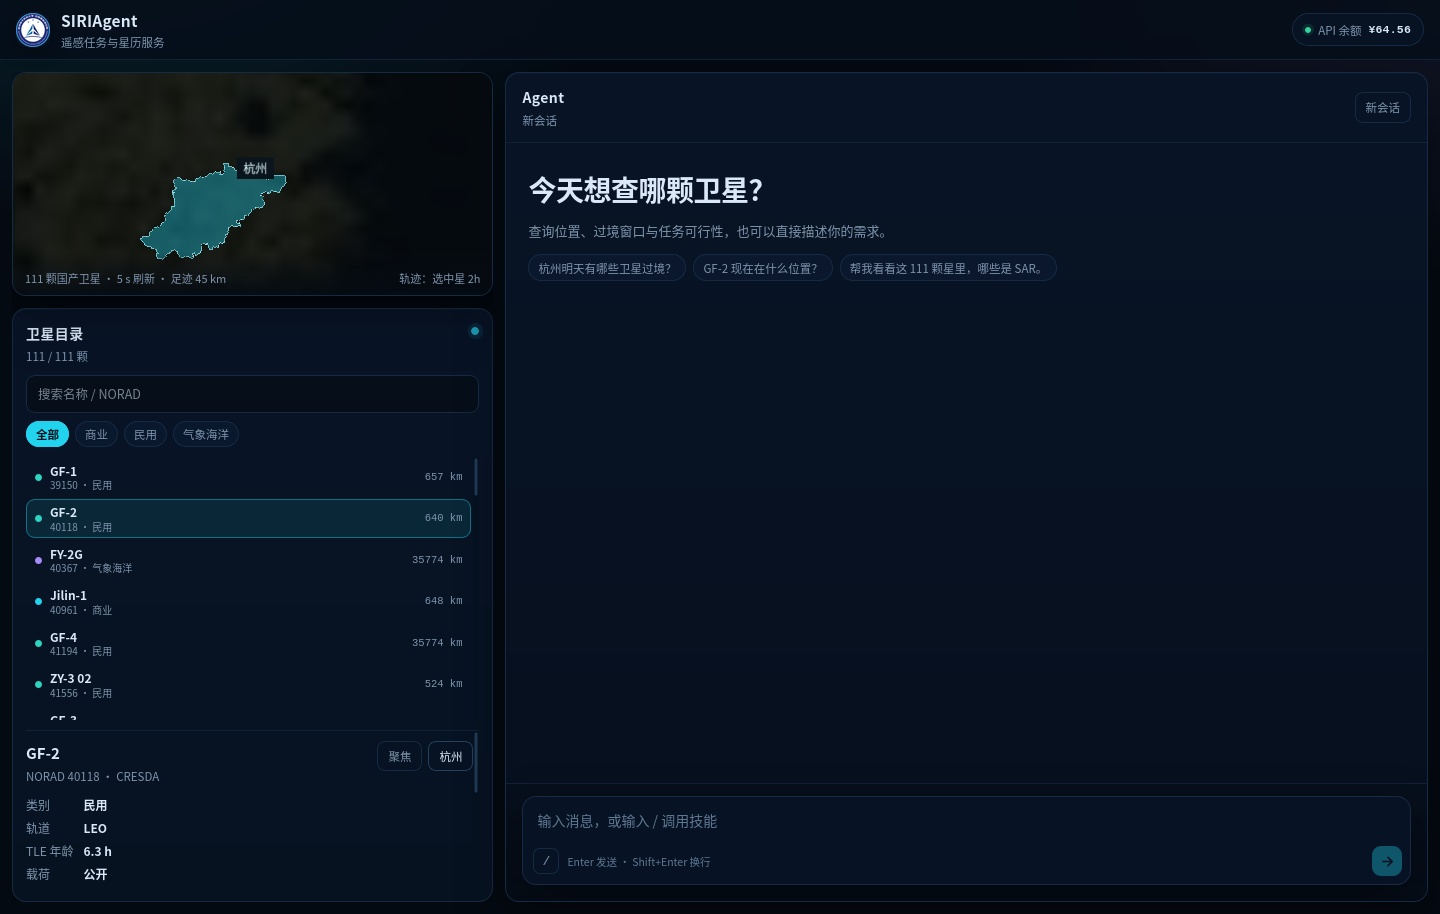
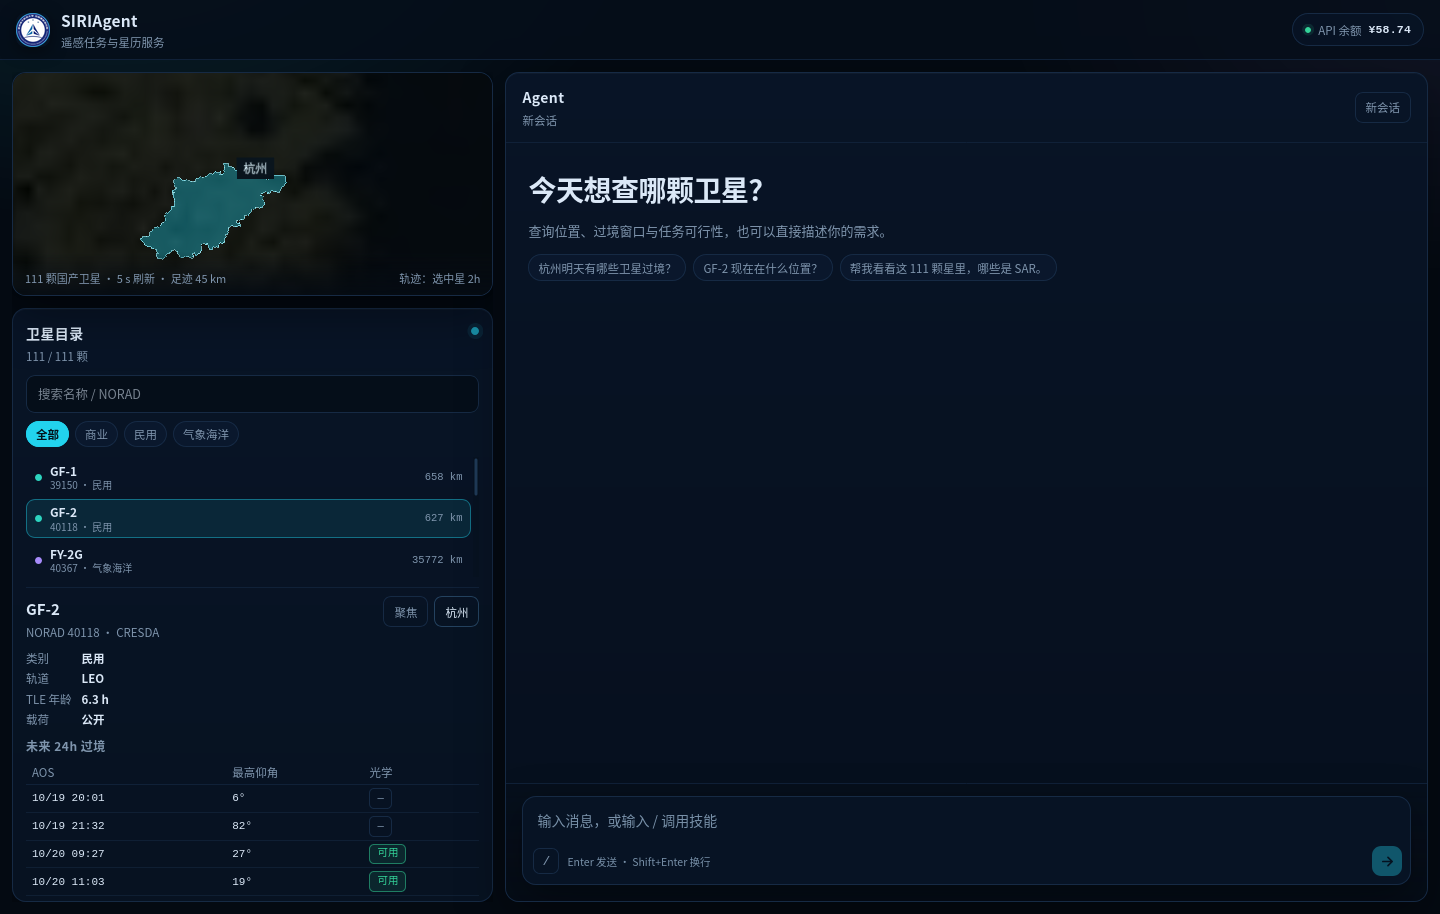
fix(web): fit satellite detail by shortening catalog list

diff --git a/web/src/styles.css b/web/src/styles.css
@@ -416,12 +416,12 @@ button {
 }
 
 .sat-detail {
-  flex: 0 0 28%;
+  flex: 0 0 auto;
   min-height: 0;
-  max-height: 28%;
+  max-height: none;
   border-top: 1px solid var(--line-soft);
-  padding-top: 10px;
-  overflow: auto;
+  padding-top: 8px;
+  overflow: visible;
 }
 
 .detail-head {
@@ -452,9 +452,9 @@ button {
 .detail-grid {
   display: grid;
   grid-template-columns: auto 1fr;
-  gap: 4px 10px;
-  margin: 10px 0 4px;
-  font-size: 12px;
+  gap: 2px 10px;
+  margin: 8px 0 2px;
+  font-size: 11.5px;
 }
 
 .detail-grid span {
@@ -462,7 +462,7 @@ button {
 }
 
 .sat-detail h4 {
-  margin: 12px 0 6px;
+  margin: 8px 0 4px;
   font-size: 12px;
   color: var(--muted);
   letter-spacing: 0.5px;
@@ -478,12 +478,12 @@ button {
   text-align: left;
   color: var(--muted);
   font-weight: 500;
-  padding: 4px 6px;
+  padding: 3px 6px;
   border-bottom: 1px solid var(--line-soft);
 }
 
 .pass-table td {
-  padding: 5px 6px;
+  padding: 3px 6px;
   border-bottom: 1px solid rgba(22, 42, 68, 0.55);
   font-family: var(--mono);
   font-size: 11px;
